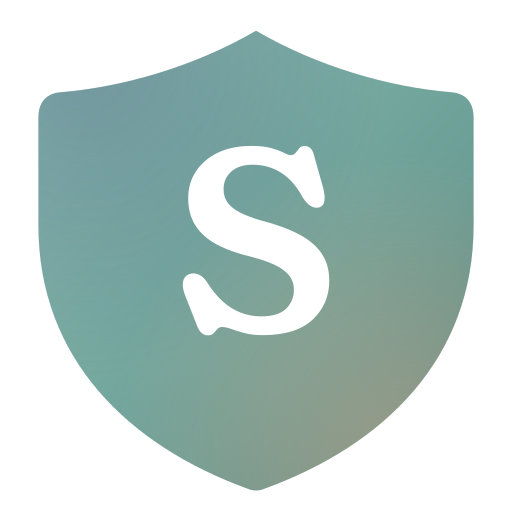
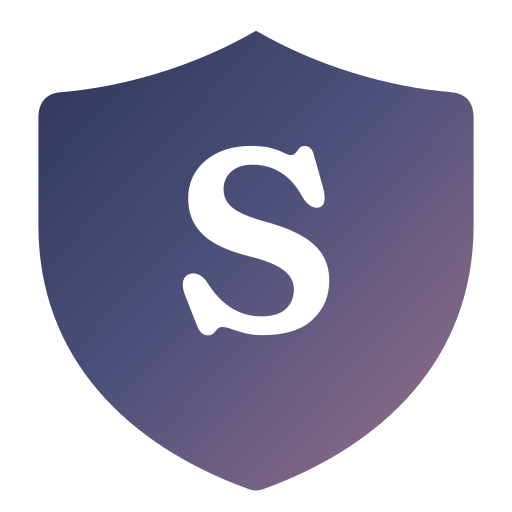
Site: Twilight Shield

diff --git a/index.html b/index.html
@@ -30,7 +30,7 @@
         --shell: #f8e2cc; --cream: #f6f3ee; --mist: #eeeae4; --haze: #e2ddd6; --stone: #6b6670;
         --graphite: #3b3840; --ink: #1e1c21; --night: #262a3b;
         --freed: #86ad95; --freed-t: #3f6b52; --review: #d8ac6c; --review-t: #85590f; --danger: #c8776d; --danger-t: #a3433a;
-        --sage: #6fa59c; --sage-t: #3b6f68; --sage-soft: #a9d3c9;
+        --sage: #7c6585; --sage-t: #4c507a; --sage-soft: #c9b3d1;
         --card-shadow: 0 1px 2px rgba(30, 28, 33, 0.05), 0 14px 44px rgba(47, 54, 82, 0.09);
         --card-shadow-lift: 0 1px 2px rgba(30, 28, 33, 0.06), 0 22px 60px rgba(47, 54, 82, 0.14);
         --glass: rgba(30, 34, 52, 0.26); --glass-border: rgba(255, 255, 255, 0.45);
@@ -146,7 +146,7 @@
       .x-row { display: flex; align-items: center; gap: 12px; padding: 9px 12px; border-radius: 14px; animation: x-in 0.4s var(--ease) both; }
       .x-row.is-sel { background: var(--mist); }
       .x-row__ic { width: 32px; height: 32px; border-radius: 10px; display: grid; place-items: center; font-size: 14px; flex: none; background: #e6e9f1; color: var(--dusk); }
-      .x-row__ic--teal { background: #e2efec; color: var(--sage-t); }
+      .x-row__ic--teal { background: #e9e6f0; color: var(--sage-t); }
       .x-row__ic--grey { background: var(--mist); color: var(--stone); }
       .x-row.is-sel .x-row__ic--grey { background: #fff; }
       .x-row__t { font-size: 15px; font-weight: 500; }
@@ -180,7 +180,7 @@
       .x-three p { margin: 0; color: var(--stone); }
       .x-badge { width: 44px; height: 44px; border-radius: 14px; display: grid; place-items: center; margin-bottom: 26px; background: var(--mist); color: var(--dusk); }
       .x-badge svg { width: 22px; height: 22px; }
-      .x-badge--teal { background: #e5f0ee; color: var(--sage-t); }
+      .x-badge--teal { background: #ebe8f1; color: var(--sage-t); }
       .x-more { display: inline-block; margin-top: 20px; font-size: 14px; font-weight: 500; color: var(--dusk); }
       @media (max-width: 860px) { .x-three { grid-template-columns: 1fr; } }
 
@@ -223,16 +223,16 @@
       .x-log em { margin-left: auto; font-style: normal; color: var(--dusk); flex: none; }
       @media (max-width: 860px) { .x-undo { grid-template-columns: 1fr; } }
 
-      /* shield: night sky, frosted dark cards, sea-sage */
+      /* shield: night sky, frosted dark cards, Twilight */
       .x-shield { background-color: var(--night); color: rgba(255, 255, 255, 0.82); --shade: linear-gradient(180deg, rgba(31, 34, 49, 0.15) 0%, rgba(31, 34, 49, 0.45) 100%); }
       .x-shield .x-h2, .x-shield .x-h3 { color: #fff; }
       .x-shield .x-eyebrow { color: var(--sage-soft); }
       .x-shield .x-lede { color: rgba(255, 255, 255, 0.82); }
       .x-shield__top { display: grid; grid-template-columns: 1fr auto; gap: 40px; align-items: center; margin-bottom: clamp(32px, 4vw, 48px); }
-      .x-shield__mark { width: clamp(120px, 16vw, 200px); filter: drop-shadow(0 24px 60px rgba(111, 165, 156, 0.32)); animation: x-float 7s ease-in-out infinite; }
+      .x-shield__mark { width: clamp(120px, 16vw, 200px); filter: drop-shadow(0 24px 60px rgba(124, 101, 133, 0.32)); animation: x-float 7s ease-in-out infinite; }
       .x-shield .x-card { background: rgba(38, 42, 59, 0.42); border: 1px solid rgba(255, 255, 255, 0.14); box-shadow: 0 18px 50px rgba(15, 17, 28, 0.22); backdrop-filter: blur(18px); -webkit-backdrop-filter: blur(18px); }
       .x-shield .x-card p { color: rgba(255, 255, 255, 0.8); }
-      .x-shield .x-badge { width: 40px; height: 40px; border-radius: 12px; margin-bottom: 20px; background: rgba(141, 189, 178, 0.16); color: var(--sage-soft); border: 1px solid rgba(141, 189, 178, 0.22); }
+      .x-shield .x-badge { width: 40px; height: 40px; border-radius: 12px; margin-bottom: 20px; background: rgba(201, 179, 209, 0.16); color: var(--sage-soft); border: 1px solid rgba(201, 179, 209, 0.22); }
       .x-shield .x-badge svg { width: 20px; height: 20px; }
       .x-shield .x-kbd { background: rgba(255, 255, 255, 0.1); border-color: rgba(255, 255, 255, 0.18); color: #fff; }
       .x-note { margin-top: 32px; padding-top: 24px; border-top: 1px solid rgba(255, 255, 255, 0.14); display: grid; gap: 8px; font-size: 14px; color: rgba(255, 255, 255, 0.78); max-width: 820px; }
